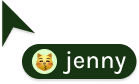
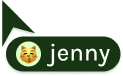
smaller image size

Changed region(s): [[0.0, 0.0, 0.9756, 0.9737], [0.8537, 0.7105, 1.0, 0.9474]]

diff --git a/index.html b/index.html
@@ -14,7 +14,7 @@
   <link rel="stylesheet" href="public/footer.css">
   <style>       
     .home {
-        cursor: url("public/uploads/cursor.png"), auto;
+        cursor: url("public/uploads/cursor.png"), default;
     }
 </style>
   <!-- <link rel="stylesheet" href="../public/animation.css"> -->
